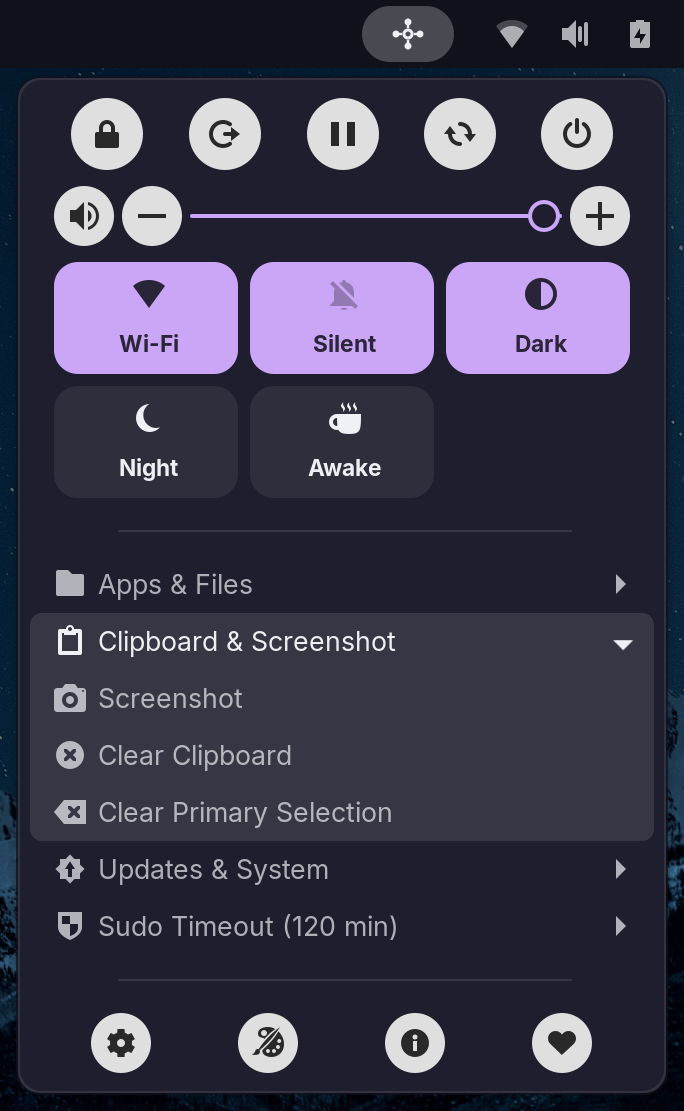
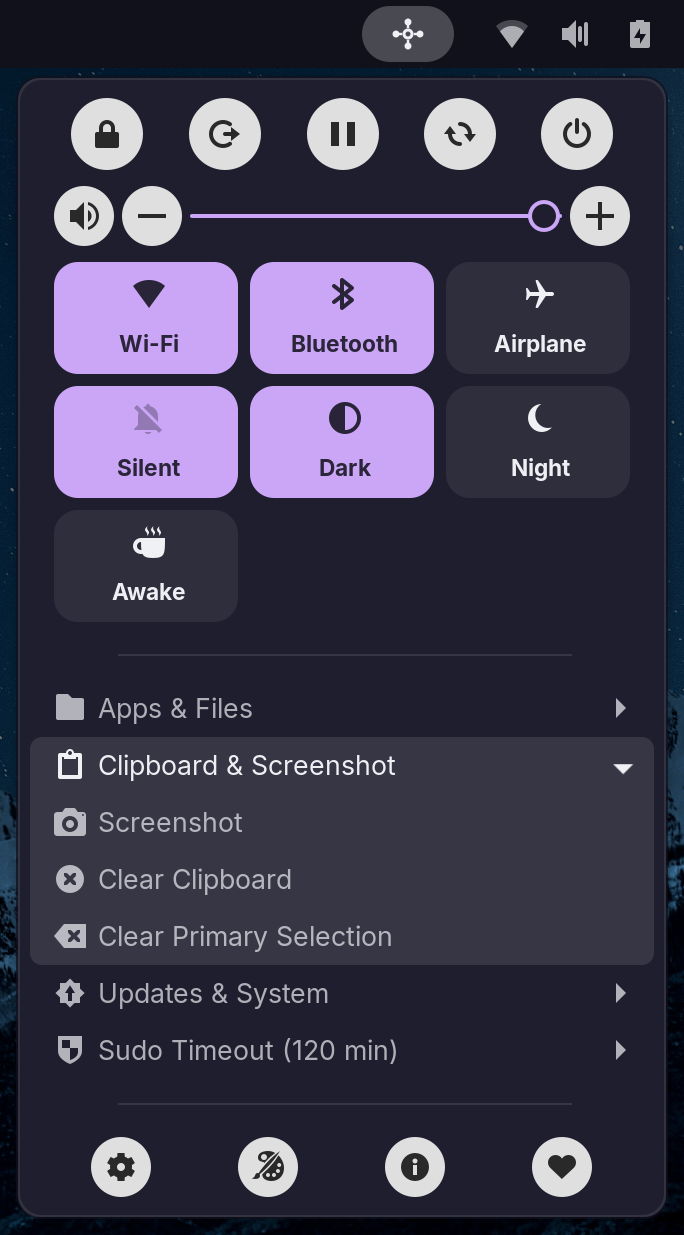
media: Bluetooth and Airplane Mode in the 1.3.0 shots, collage and tour (#77)
* media: show Bluetooth and Airplane Mode in the 1.3.0 shots and tour

The nested GNOME Shell runs on a private D-Bus without gsd-rfkill, so
EaseHub hid its Bluetooth and Airplane Mode tiles in every screenshot, the
collage, the social preview and the video. A small mock of the rfkill
interface now runs inside that session (in-memory values, no real radio).

The video records only the nested Shell's own window and the Settings
window without its shadow margin, so nothing else on the desktop appears,
and it starts on the title scene. The appearance shots no longer show a
cut-off tooltip under the menu.

* docs: link the refreshed 1.3.0 tour with Bluetooth and Airplane Mode

* docs: name the Bluetooth and Airplane Mode tiles under the panel menu shot

---------

diff --git a/tools/media/showcase/extension.js b/tools/media/showcase/extension.js
@@ -391,6 +391,8 @@ async function tourMenu(ind, es) {
         await hover(appearance, 300);
         es.set_string('menu-style', name);                  // same as clicking the footer button
         await wait(MODE === 'video' ? 1400 : 900);
+        if (MODE !== 'video')
+            ind._tooltips?.hide();                          // it would sit cut off below the crop
         await menuShot(ind, `08-appearance-${name}`);
     }
     es.reset('menu-style');

diff --git a/tools/media/showcase.py b/tools/media/showcase.py
@@ -21,6 +21,7 @@ import argparse
 import contextlib
 import json
 import os
+import re
 import shutil
 import subprocess
 import sys
@@ -109,11 +110,14 @@ gsettings set org.gnome.desktop.notifications show-banners false
 {sets}
 sleep 1
 [ -s "$XDG_CONFIG_HOME/dconf/user" ] || {{ echo "ISOLATION FAILED"; exit 1; }}
+# gsd-rfkill is absent on this private bus; without it the Bluetooth and Airplane tiles hide.
+python3 {MEDIA / 'showcase' / 'mock_rfkill.py'} &
+sleep 0.5
 {display} timeout {600 if mode == 'video' else 150} gnome-shell --nested --wayland || true
 ''')
     env = dict(os.environ, XDG_DATA_HOME=str(work / 'data'), XDG_CONFIG_HOME=str(work / 'config'),
                EASEHUB_SHOWCASE_OUT=str(out), EASEHUB_SHOWCASE_MODE=mode, EASEHUB_SHOWCASE_PARTS=parts, EASEHUB_SHOWCASE_SCALE=str(scale),
-               EASEHUB_SHOWCASE_DEMO_DIR=str(demo),
+               EASEHUB_SHOWCASE_DEMO_DIR=str(demo), EASEHUB_SHOWCASE_CLIENT=f'{client[0]}x{client[1]}',
                EASEHUB_SHOWCASE_DURATIONS=json.dumps(durations))
     return env
 
@@ -130,7 +134,28 @@ def _window_geom(wid: str) -> dict:
     return vals
 
 
-def nested_window(timeout=60):
+def _stage_rect(client, frame):
+    """The nested Shell's own client window inside the host frame.
+
+    The frame rectangle also covers its title bar and an invisible shadow margin,
+    and x11grab records whatever is on the desktop behind that margin.
+    """
+    if not client:
+        return None
+    cw, ch = client
+    fx, fy, fw, fh = frame
+    tree = subprocess.run(['xwininfo', '-root', '-tree'], capture_output=True, text=True).stdout
+    for line in tree.splitlines():
+        m = re.search(r'\s(\d+)x(\d+)\+-?\d+\+-?\d+\s+\+(-?\d+)\+(-?\d+)\s*$', line)
+        if not m:
+            continue
+        w, h, x, y = (int(g) for g in m.groups())
+        if (w, h) == (cw, ch) and fx <= x and fy <= y and x + w <= fx + fw + 2 and y + h <= fy + fh + 2:
+            return x, y, w - w % 2, h - h % 2
+    return None
+
+
+def nested_window(timeout=60, client=None):
     """Find the nested Shell window on the host display.
 
     Its size is often a few pixels off 1600x1000 once the frame is included, and
@@ -178,6 +203,10 @@ def nested_window(timeout=60):
                 time.sleep(0.4)
                 continue
             log(f"nested window {w}x{h} at {x1},{y1} '{v['name']}'")
+            stage = _stage_rect(client, (x1, y1, w, h))
+            if stage:
+                log(f'recording only the nested stage {stage[2]}x{stage[3]} at {stage[0]},{stage[1]}')
+                return stage
             return x1, y1, w, h
         time.sleep(0.4)
     summary = ', '.join(f"{v.get('Width')}x{v.get('Height')} {v.get('name')}" for v in seen.values()) or 'none'
@@ -192,7 +221,9 @@ def run_session(work: Path, env: dict, record: Path | None):
     rec, rec_start = None, None
     try:
         if record:
-            x, y, w, h = nested_window()
+            spec = env.get('EASEHUB_SHOWCASE_CLIENT', '')
+            client = tuple(int(n) for n in spec.split('x')) if spec else None
+            x, y, w, h = nested_window(client=client)
             rec = subprocess.Popen(
                 ['ffmpeg', '-y', '-loglevel', 'error', '-f', 'x11grab', '-draw_mouse', '0', '-framerate', '30',
                  '-video_size', f'{w}x{h}', '-i', f"{os.environ.get('DISPLAY', ':0')}+{x},{y}",
@@ -421,6 +452,10 @@ def video(args):
         log('settings: each tab from the top to the bottom')
         settings = record_settings(work / 'settings', voice)
         title = f'Comfort Control (EaseHub) {em.version()} — GNOME Shell {em.shell_range()}'
+        # Start on the title scene: before it the nested shell is still starting up.
+        first = next((s for s in scenes if s['key'] == 'title'), None)
+        t0 = max(0.0, (first['t'] - rec_start) / 1e6 - 0.3) if first else 0.0
+        rec_start += t0 * 1e6
         end_t = None
         for sc in scenes:
             if sc['key'] == 'end':
@@ -436,7 +471,7 @@ def video(args):
             if voice and sc['key'] in voice.files:
                 events.append((start, str(voice.files[sc['key']])))
         body = work / 'body.mp4'
-        render(raw, body, captions, work / 'body-caps', to=end_t)
+        render(raw, body, captions, work / 'body-caps', ss=t0, to=end_t)
         body_len = probe_len(body)
         pieces = [body]
         if settings is not None:
@@ -447,7 +482,7 @@ def video(args):
         if end_t is not None:
             end_sc = next(s for s in scenes if s['key'] == 'end')
             outro = work / 'outro.mp4'
-            render(raw, outro, [(0.3, 5.5, end_sc['caption'] or title)], work / 'outro-caps', ss=end_t)
+            render(raw, outro, [(0.3, 5.5, end_sc['caption'] or title)], work / 'outro-caps', ss=t0 + end_t)
             pieces.append(outro)
             if voice and 'end' in voice.files:
                 events.append((body_len, str(voice.files['end'])))
@@ -498,6 +533,15 @@ def record_settings(work: Path, voice):
             ps.sh('xdotool', 'windowmove', wid, str(max(0, (sw - ps.W) // 2)), '40')
             time.sleep(0.6)
             x, y, w, h = ps.geometry(wid)
+            # GTK draws a transparent shadow margin around the window; recording it
+            # would show whatever is on the desktop behind. Keep the visible window only.
+            probe = work / f'{page}-frame.png'
+            ps.sh('import', '-window', wid, str(probe))
+            from PIL import Image
+            box = Image.open(probe).convert('L').point(lambda v: 255 if v > 12 else 0).getbbox()
+            probe.unlink(missing_ok=True)
+            if box:
+                x, y, w, h = x + box[0] + 2, y + box[1] + 2, box[2] - box[0] - 4, box[3] - box[1] - 4
             w -= w % 2
             h -= h % 2
             raw = work / f'{page}.mp4'

diff --git a/tools/media/showcase/mock_rfkill.py b/tools/media/showcase/mock_rfkill.py
@@ -1,0 +1,55 @@
+#!/usr/bin/env python3
+"""Stand-in for gsd-rfkill on the nested session's private D-Bus.
+
+The nested Shell runs under dbus-run-session, where GNOME's rfkill service does
+not exist, so EaseHub hides its Bluetooth and Airplane Mode tiles. This mock
+answers the same interface so both tiles show up and can be toggled. It only
+stores booleans in memory; no real radio is touched.
+"""
+
+from gi.repository import Gio, GLib
+
+NAME = 'org.gnome.SettingsDaemon.Rfkill'
+PATH = '/org/gnome/SettingsDaemon/Rfkill'
+XML = f'''<node><interface name="{NAME}">
+  <property name="AirplaneMode" type="b" access="readwrite"/>
+  <property name="HardwareAirplaneMode" type="b" access="read"/>
+  <property name="HasAirplaneMode" type="b" access="read"/>
+  <property name="ShouldShowAirplaneMode" type="b" access="read"/>
+  <property name="BluetoothAirplaneMode" type="b" access="readwrite"/>
+  <property name="BluetoothHardwareAirplaneMode" type="b" access="read"/>
+  <property name="BluetoothHasAirplaneMode" type="b" access="read"/>
+</interface></node>'''
+
+props = {
+    'AirplaneMode': False,
+    'HardwareAirplaneMode': False,
+    'HasAirplaneMode': True,
+    'ShouldShowAirplaneMode': True,
+    'BluetoothAirplaneMode': False,
+    'BluetoothHardwareAirplaneMode': False,
+    'BluetoothHasAirplaneMode': True,
+}
+conn = None
+
+
+def get_prop(_c, _s, _p, _i, name):
+    return GLib.Variant('b', props[name])
+
+
+def set_prop(c, _s, _p, _i, name, value):
+    props[name] = value.unpack()
+    c.emit_signal(None, PATH, 'org.freedesktop.DBus.Properties', 'PropertiesChanged',
+                  GLib.Variant('(sa{sv}as)', (NAME, {name: GLib.Variant('b', props[name])}, [])))
+    return True
+
+
+def on_bus(c, _name):
+    global conn
+    conn = c
+    iface = Gio.DBusNodeInfo.new_for_xml(XML).interfaces[0]
+    c.register_object(PATH, iface, None, get_prop, set_prop)
+
+
+Gio.bus_own_name(Gio.BusType.SESSION, NAME, Gio.BusNameOwnerFlags.NONE, on_bus, None, None)
+GLib.MainLoop().run()

diff --git a/README.md b/README.md
@@ -21,7 +21,7 @@ A **GNOME Shell extension** that brings **comfort and control to your desktop** 
 
 > Download [v1.3.0](https://github.com/nickotmazgin/comfort-control-easehub/releases/latest). Older releases remain for history and rollback.
 
-> **Tour:** [narrated demo on YouTube](https://www.youtube.com/watch?v=8F3gWtqQ3fw) · [write-up on DEV](https://dev.to/nickotmazgin/easehub-130-a-compact-gnome-menu-with-sound-and-files-right-click-actions-16ma)
+> **Tour:** [narrated demo on YouTube](https://www.youtube.com/watch?v=5A7521LUAQ8) · [write-up on DEV](https://dev.to/nickotmazgin/easehub-130-a-compact-gnome-menu-with-sound-and-files-right-click-actions-16ma)
 
 > **GNOME Shell 42–44 is no longer supported.** EaseHub requires **GNOME 45–51**.
 
@@ -176,9 +176,9 @@ Build it locally with `./create-release-zips.sh`, or `./package.sh --install` to
 
 ## Demo video
 
-*A 2-minute narrated tour of EaseHub 1.3.0 ([also on YouTube](https://www.youtube.com/watch?v=8F3gWtqQ3fw); turn the sound on; [announcement](https://github.com/nickotmazgin/comfort-control-easehub/discussions/73); [DEV](https://dev.to/nickotmazgin/easehub-130-a-compact-gnome-menu-with-sound-and-files-right-click-actions-16ma)): the compact panel menu, volume, quick toggles, Apps & Files, Clipboard & Screenshot, Updates & System, Sudo Timeout, appearance (System, Light, Dark), the Files right-click actions, and every Settings tab from top to bottom.*
+*A 2-minute narrated tour of EaseHub 1.3.0 ([also on YouTube](https://www.youtube.com/watch?v=5A7521LUAQ8); turn the sound on; [announcement](https://github.com/nickotmazgin/comfort-control-easehub/discussions/73); [DEV](https://dev.to/nickotmazgin/easehub-130-a-compact-gnome-menu-with-sound-and-files-right-click-actions-16ma)): the compact panel menu, volume, quick toggles (Wi-Fi, Bluetooth, Airplane Mode, Do Not Disturb, Dark Mode, Night Light, Keep Awake), Apps & Files, Clipboard & Screenshot, Updates & System, Sudo Timeout, appearance (System, Light, Dark), the Files right-click actions, and every Settings tab from top to bottom.*
 
-https://github.com/user-attachments/assets/1df1c25c-485a-491a-b15a-ddc69d25ae58
+https://github.com/user-attachments/assets/5af64b49-7ea8-4879-9778-1d30e7d9254a
 
 ---
 
@@ -192,7 +192,7 @@ https://github.com/user-attachments/assets/1df1c25c-485a-491a-b15a-ddc69d25ae58
   <tr>
     <td align="center">
       <a href="screenshots/v1.3.0/01-panel-menu.png"><img src="screenshots/v1.3.0/01-panel-menu.png" width="260" alt="Panel menu"></a><br>
-      <b>Panel menu</b> — power, sound, and quick toggles
+      <b>Panel menu</b> — power, sound, and quick toggles (Wi-Fi, Bluetooth, Airplane Mode and more)
     </td>
     <td align="center">
       <a href="screenshots/v1.3.0/03-menu-apps.png"><img src="screenshots/v1.3.0/03-menu-apps.png" width="260" alt="Apps and Files group"></a><br>
@@ -278,7 +278,7 @@ Every AI-assisted change is human-reviewed, tested on real GNOME sessions, and a
 
 **Search for:** EaseHub GNOME, GNOME panel menu, GNOME Shell extension, Linux power menu, volume control panel, quick toggles, Files right-click Nautilus, dark mode extension, Wayland X11
 
-**Also:** [YouTube tour](https://www.youtube.com/watch?v=8F3gWtqQ3fw) · [DEV](https://dev.to/nickotmazgin/easehub-130-a-compact-gnome-menu-with-sound-and-files-right-click-actions-16ma) · [Discussion](https://github.com/nickotmazgin/comfort-control-easehub/discussions/73)
+**Also:** [YouTube tour](https://www.youtube.com/watch?v=5A7521LUAQ8) · [DEV](https://dev.to/nickotmazgin/easehub-130-a-compact-gnome-menu-with-sound-and-files-right-click-actions-16ma) · [Discussion](https://github.com/nickotmazgin/comfort-control-easehub/discussions/73)
 
 ## More GNOME extensions by Nick Otmazgin
 

diff --git a/tools/media/README.md b/tools/media/README.md
@@ -2,8 +2,18 @@
 
 Menu and Files shots, the collage, and the GitHub social preview are taken
 inside a nested GNOME Shell. That session has its own settings database. It is
-not isolated from NetworkManager, Bluetooth, power, or sudo: those talk to the
-real system. A pointer miss on a Wi-Fi tile turns the real radio off.
+not isolated from NetworkManager, power, or sudo: those talk to the real
+system. A pointer miss on a Wi-Fi tile turns the real radio off.
+
+GNOME's rfkill service (gsd-rfkill) is not on the nested session's private
+D-Bus, so EaseHub would hide its Bluetooth and Airplane Mode tiles.
+[`showcase/mock_rfkill.py`](showcase/mock_rfkill.py) answers that interface
+inside the nested session with in-memory values, so both tiles appear in the
+shots and the video. It never touches a real radio.
+
+Video frames hold only the nested Shell's own window and the Settings window
+without its shadow margin, so nothing else on your desktop is recorded. The
+video starts on the title scene.
 
 `video` records that nested shell in motion (the menu, each group, appearance,
 and the Files right-click walk), then scrolls every Settings tab on this
@@ -76,8 +86,8 @@ not start the next picture early.
 - Do not run `tools/media/easehub_media.py` to take shots or video. That older
   path clicks the real panel menu. `screenshots`, `video`, and `all` now refuse
   to start. `restore` and `remix` still work.
-- `video` does open a nested shell. Wi-Fi, Bluetooth, Airplane Mode, power,
-  and Sudo Timeout still talk to the real system. The v1.3.0 tour missed
+- `video` does open a nested shell. Wi-Fi, power, and Sudo Timeout still talk
+  to the real system (Bluetooth and Airplane Mode go to the mock). The v1.3.0 tour missed
   Dark Mode and switched the real Wi-Fi radio off. Do not aim the pointer at
   those tiles. Video mode does not move it; screenshot mode may hover them
   and must not click them.
